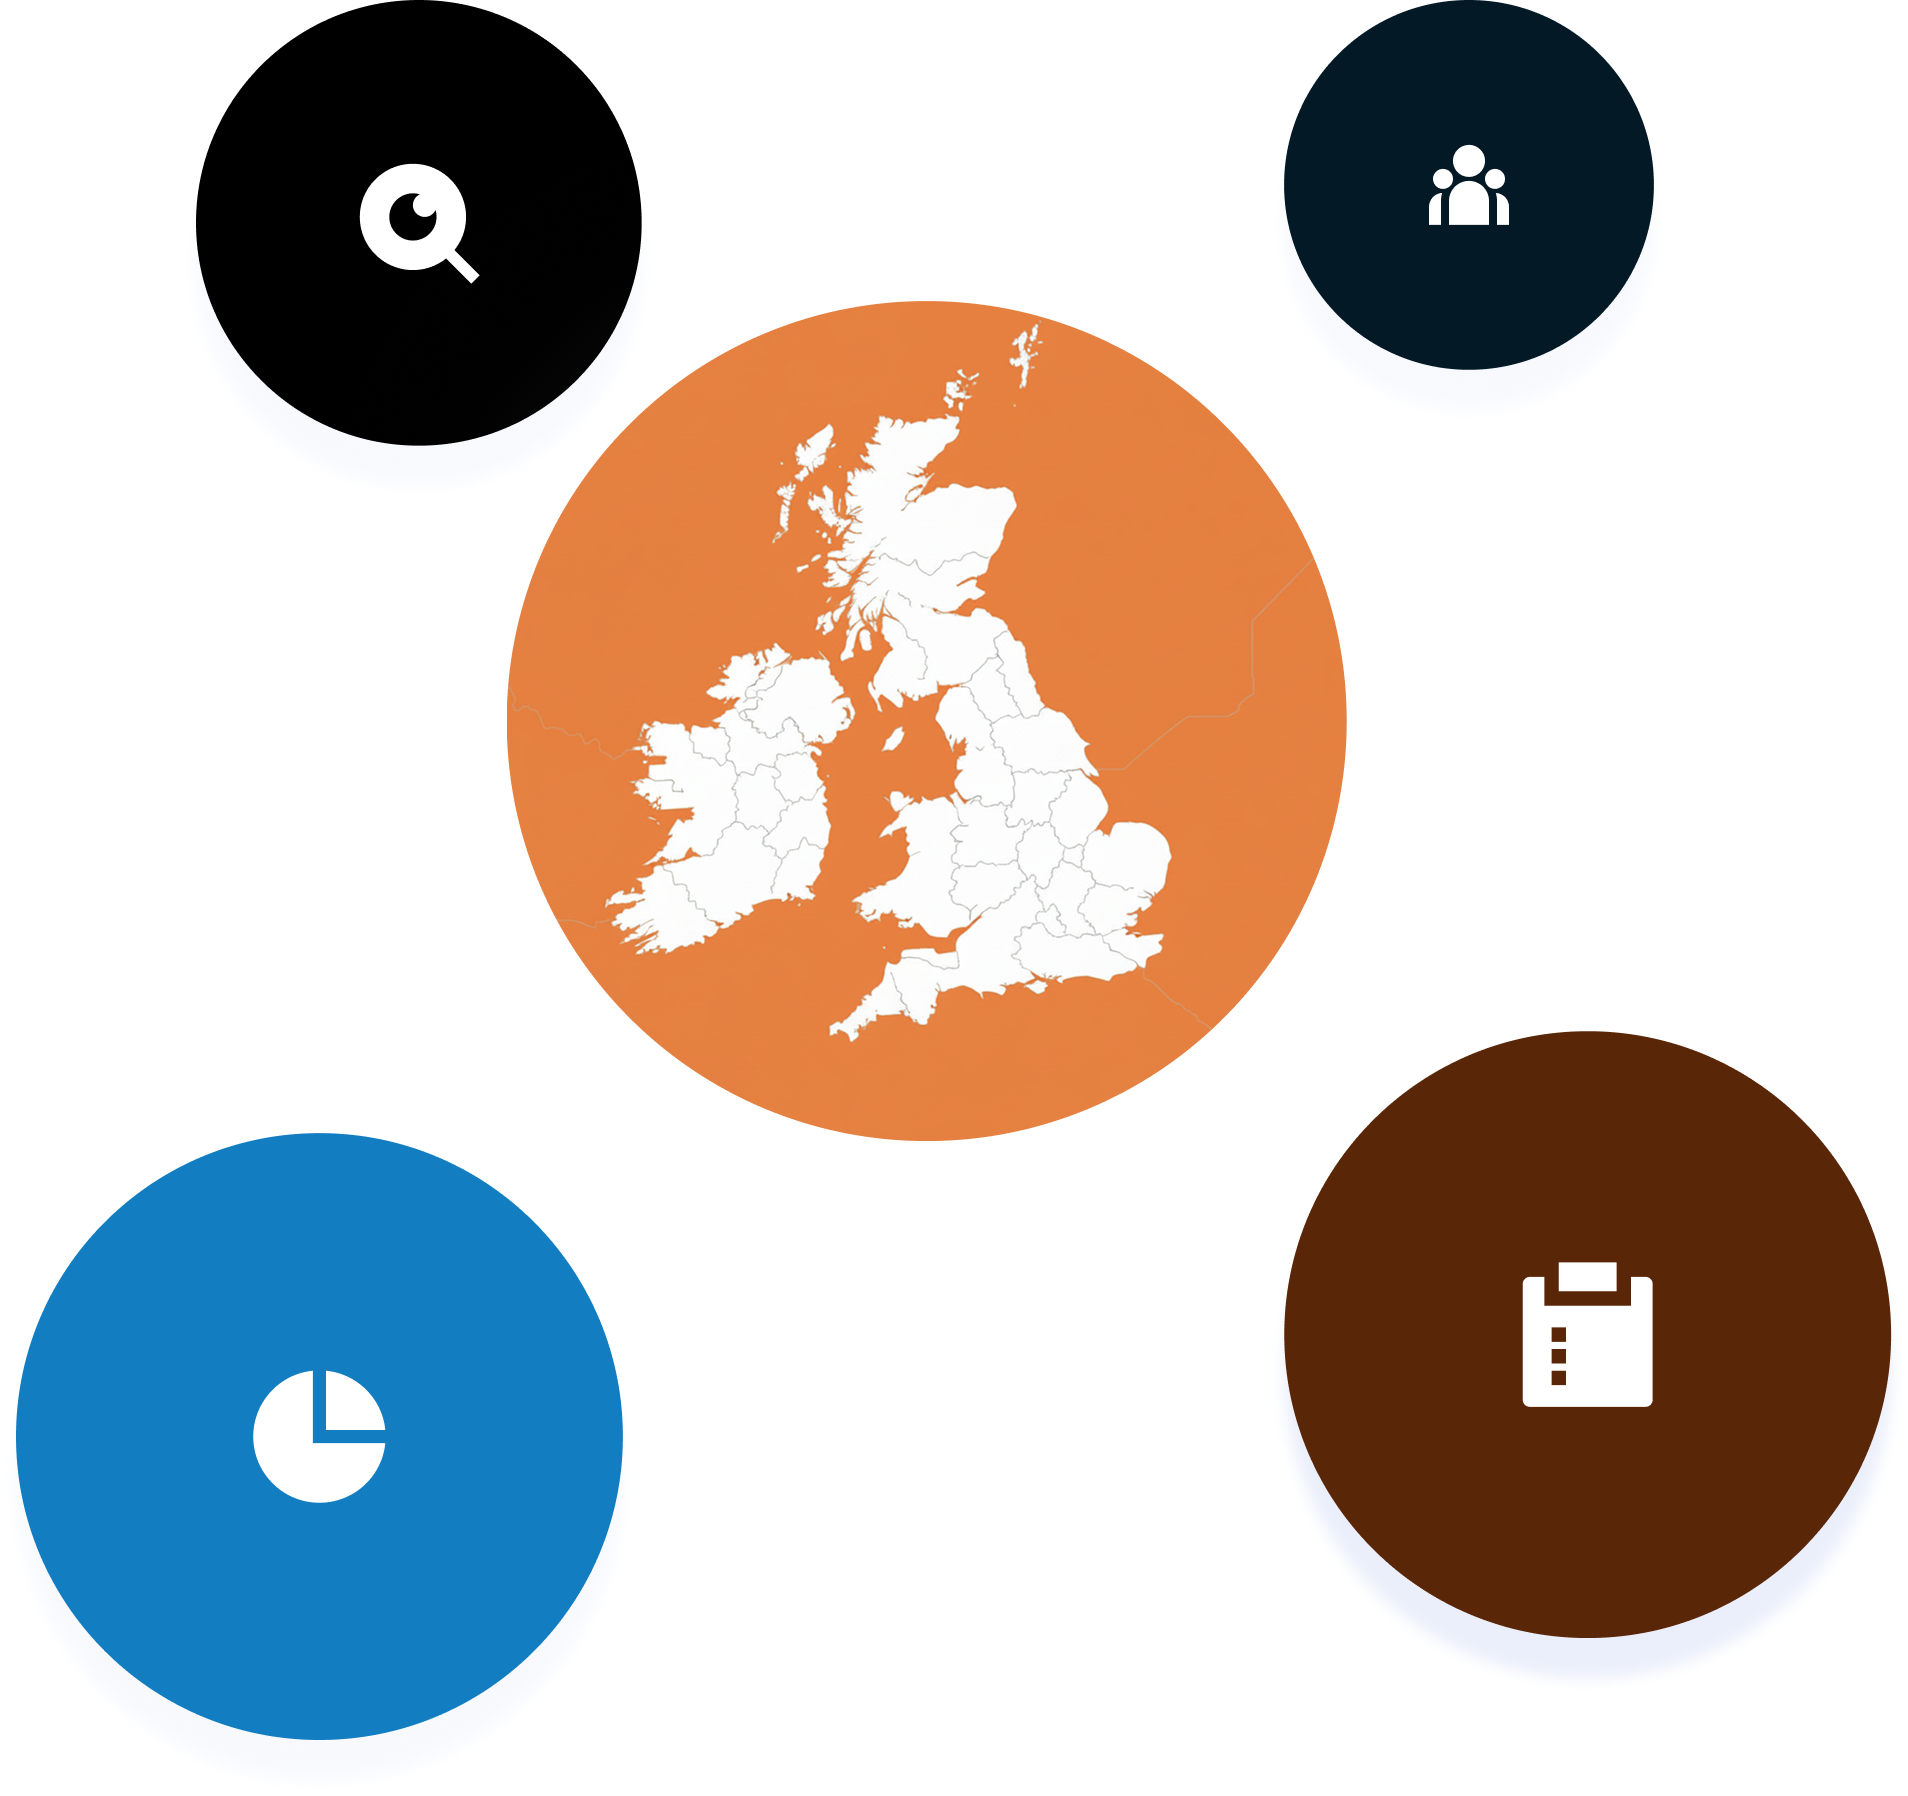
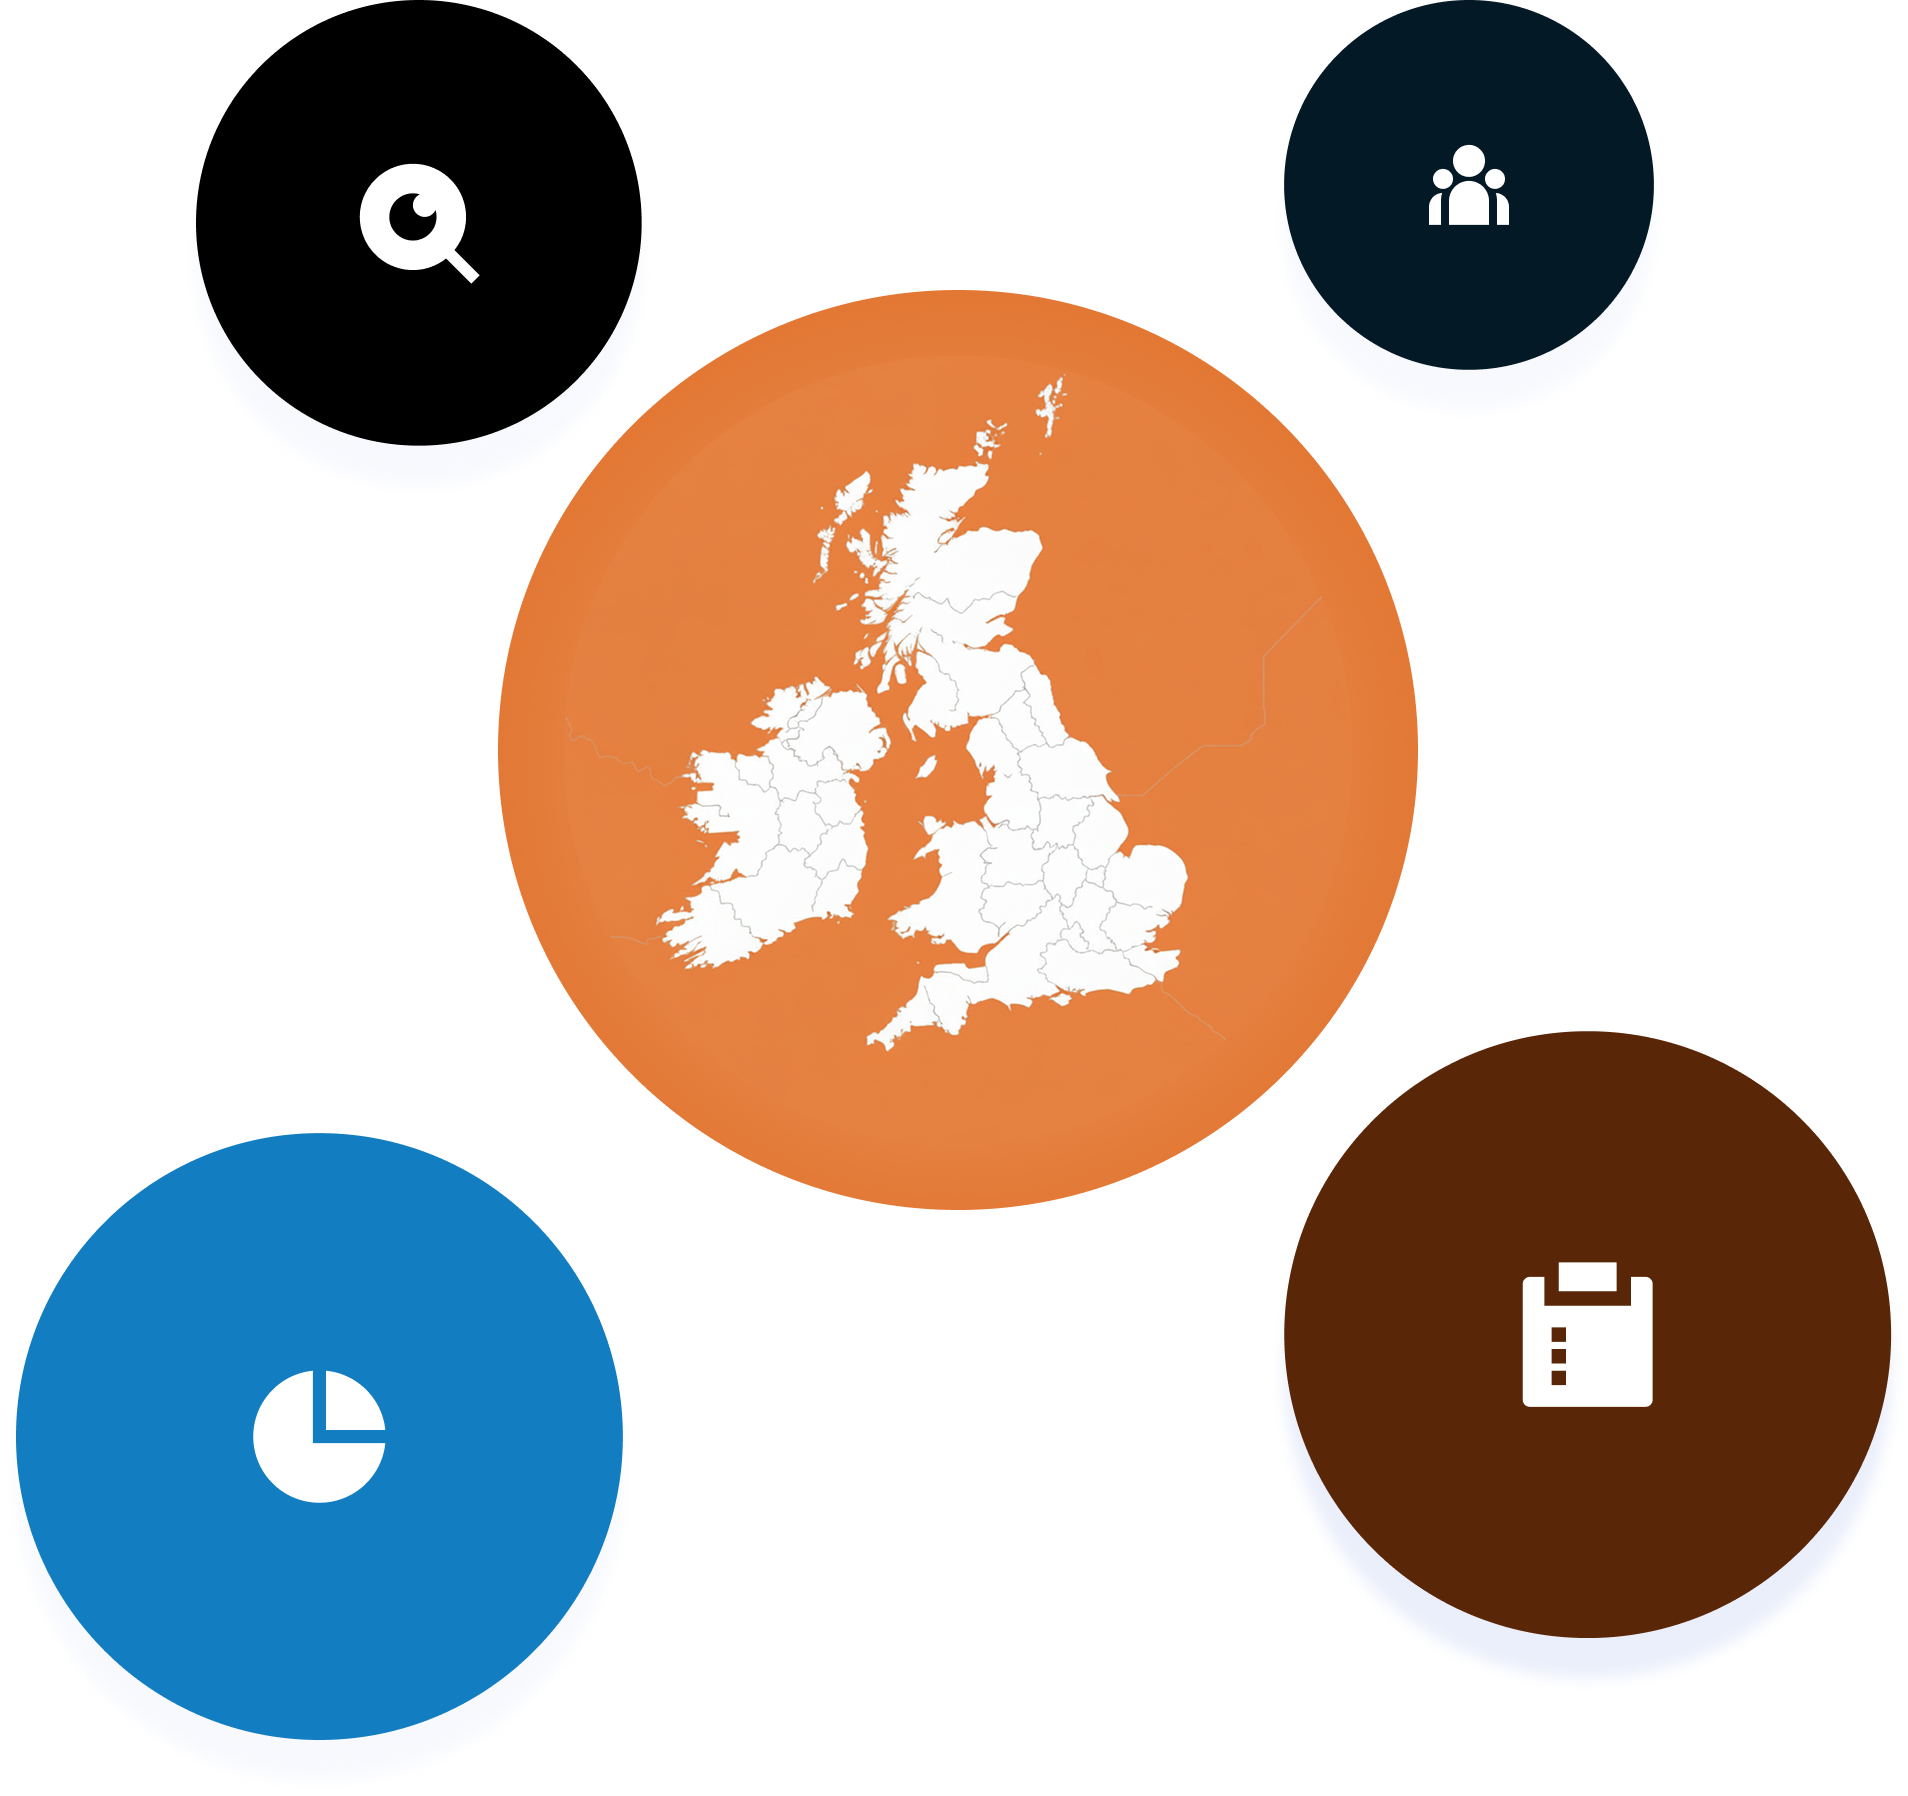
latest update to site

Changed region(s): [[0.2783, 0.1559, 0.7421, 0.686], [0.2474, 0.3742, 0.2783, 0.4989]]

diff --git a/src/app/(main)/page.js b/src/app/(main)/page.js
@@ -149,7 +149,7 @@ export default function Main() {
       id: 8,
       title: "Telecommunication and Media",
       description:
-        "BFG helps businesses in this sector navigate technological disruptions, regulatory shifts, and digital transformations to remain competitive and deliver superior services.",
+        "BFG Global Consult helps businesses in this sector navigate technological disruptions, regulatory shifts, and digital transformations to remain competitive and deliver superior services.",
       imageAlt: "slider8-img",
       imageSrc: "/assets/telecom-banner.png",
       readMore: "/industry/industries/telecom-media",
@@ -245,7 +245,7 @@ export default function Main() {
       href: "/solutions/research-analytics",
       title: "Research & Analytics",
       description:
-        "We provide startups, & SMEs with valuable insights & information that can inform business strategies, decision-making processes, & problem-solving efforts. We serve as an impartial partner for businesses in the process of gathering, analyzing & interpreting data in order to make informed decisions.",
+        "We provide Startups & SMEs with valuable insights & Information that can inform business strategies, market positioning, customer engagement, and overall decision-making. We serve as an impartial partner for businesses in the process of gathering, analyzing & interpreting data in order to make informed decisions.",
       svgPath:
         "M6 4V8H18V4H20.0066C20.5552 4 21 4.44495 21 4.9934V21.0066C21 21.5552 20.5551 22 20.0066 22H3.9934C3.44476 22 3 21.5551 3 21.0066V4.9934C3 4.44476 3.44495 4 3.9934 4H6ZM9 17H7V19H9V17ZM9 14H7V16H9V14ZM9 11H7V13H9V11ZM16 2V6H8V2H16Z",
     },
@@ -258,13 +258,12 @@ export default function Main() {
       svgPath:
         "M18.031 16.6168L22.3137 20.8995L20.8995 22.3137L16.6168 18.031C15.0769 19.263 13.124 20 11 20C6.032 20 2 15.968 2 11C2 6.032 6.032 2 11 2C15.968 2 20 6.032 20 11C20 13.124 19.263 15.0769 18.031 16.6168ZM16.0247 15.8748C17.2475 14.6146 18 12.8956 18 11C18 7.1325 14.8675 4 11 4C7.1325 4 4 7.1325 4 11C4 14.8675 7.1325 18 11 18C12.8956 18 14.6146 17.2475 15.8748 16.0247L16.0247 15.8748ZM12.1779 7.17624C11.4834 7.48982 11 8.18846 11 9C11 10.1046 11.8954 11 13 11C13.8115 11 14.5102 10.5166 14.8238 9.82212C14.9383 10.1945 15 10.59 15 11C15 13.2091 13.2091 15 11 15C8.79086 15 7 13.2091 7 11C7 8.79086 8.79086 7 11 7C11.41 7 11.8055 7.06167 12.1779 7.17624Z",
     },
-   
     {
       id: 3,
       href: "/solutions/business-strategy",
       title: "Strategy & Operations Transformation",
       description:
-        "Earn your business the ability to achieve desired goals through the development & implementation of plans & processes aimed at improving competitiveness. Through this service, we help startups & SMEs align their operations.",
+        "Earn your business the ability to achieve desired goals through the development & implementation of plans & processes aimed at improving competitiveness. Through this service, we help startups & SMEs align their operations with their strategic objectives.",
       svgPath:
         "M11 2.04938V13H21.9506C21.4489 18.0533 17.1853 22 12 22C6.47715 22 2 17.5229 2 12C2 6.81465 5.94668 2.5511 11 2.04938ZM13 2.04938C17.7244 2.51845 21.4816 6.27559 21.9506 11H13V2.04938Z",
     },
@@ -273,7 +272,7 @@ export default function Main() {
       href: "/solutions/training-development",
       title: "Training & Development",
       description:
-        "Improve job performance through employee training. Win the process of enhancing the skills, knowledge & abilities of employees to perform their jobs more effectively. Through this solution, we help startups & SMEs improve their overall performance.",
+        "Improve job performance through employee training. Win the process of enhancing the skills, knowledge & abilities of employees to perform their jobs more effectively. Through this solution, we help Startups & SMEs improve their overall performance by equipping them with the right knowledge and skills.",
       svgPath:
         "M12 10C14.2091 10 16 8.20914 16 6 16 3.79086 14.2091 2 12 2 9.79086 2 8 3.79086 8 6 8 8.20914 9.79086 10 12 10ZM5.5 13C6.88071 13 8 11.8807 8 10.5 8 9.11929 6.88071 8 5.5 8 4.11929 8 3 9.11929 3 10.5 3 11.8807 4.11929 13 5.5 13ZM21 10.5C21 11.8807 19.8807 13 18.5 13 17.1193 13 16 11.8807 16 10.5 16 9.11929 17.1193 8 18.5 8 19.8807 8 21 9.11929 21 10.5ZM12 11C14.7614 11 17 13.2386 17 16V22H7V16C7 13.2386 9.23858 11 12 11ZM5 15.9999C5 15.307 5.10067 14.6376 5.28818 14.0056L5.11864 14.0204C3.36503 14.2104 2 15.6958 2 17.4999V21.9999H5V15.9999ZM22 21.9999V17.4999C22 15.6378 20.5459 14.1153 18.7118 14.0056 18.8993 14.6376 19 15.307 19 15.9999V21.9999H22Z",
     },

diff --git a/src/app/ng/page.js b/src/app/ng/page.js
@@ -144,14 +144,14 @@ export default function NigeriaPage() {
     <div className="min-h-screen">
       {/* Hero Section */}
       <section className="relative py-16 lg:py-[150px]">
-        <div className="absolute inset-0 z-0">
+        {/* <div className="absolute inset-0 z-0">
           <Image
             src="/assets/ng-background.png"
             alt="Nigeria business landscape background with modern office buildings"
             fill
             className="object-cover"
           />
-        </div> 
+        </div>  */}
         <div className="container mx-auto relative z-10">
           <div className="grid lg:grid-cols-2 gap-12 items-center">
           {/* Left Content */}
@@ -188,7 +188,7 @@ export default function NigeriaPage() {
 
           {/* Right Content - Map with Stats */}
           <div className="relative">
-            <div className="bg-gradient-to-br from-gray-50 to-gray-100 rounded-2xl p-8 lg:p-12 shadow-xl">
+            {/* <div className="bg-gradient-to-br from-gray-50 to-gray-100 rounded-2xl p-8 lg:p-12 shadow-xl"> */}
               {/* Growth Rate Badge */}
               {/* <div className="absolute top-8 left-8 bg-white rounded-lg shadow-lg p-3 flex items-center gap-3">
                 <div className="w-10 h-10 bg-[#E26015] rounded-lg flex items-center justify-center">
@@ -229,7 +229,7 @@ export default function NigeriaPage() {
                   <p className="text-lg font-bold text-[#E26015]">99.8%</p>
                 </div>
               </div> */}
-            </div>
+            {/* </div> */}
           </div>
         </div>
         </div>

diff --git a/src/app/(uk)/uk/page.js b/src/app/(uk)/uk/page.js
@@ -140,14 +140,14 @@ export default function UKPage() {
     <div className="min-h-screen">
       {/* Hero Section */}
       <section className="relative py-16 lg:py-[150px]">
-        <div className="absolute inset-0 z-0">
+        {/* <div className="absolute inset-0 z-0">
           <Image
             src="/assets/ng-background.png"
             alt="UK business landscape background with modern office buildings"
             fill
             className="object-cover"
           />
-        </div>
+        </div> */}
         <div className="container mx-auto relative z-10">
           <div className="grid lg:grid-cols-2 gap-12 items-center">
           {/* Left Content */}
@@ -185,7 +185,7 @@ export default function UKPage() {
 
           {/* Right Content - Map with Stats */}
           <div className="relative">
-            <div className="bg-gradient-to-br from-gray-50 to-gray-100 rounded-2xl p-8 lg:p-12 shadow-xl">
+            {/* <div className="bg-gradient-to-br from-gray-50 to-gray-100 rounded-2xl p-8 lg:p-12 shadow-xl"> */}
               {/* Growth Rate Badge */}
               {/* <div className="absolute top-8 left-8 bg-white rounded-lg shadow-lg p-3 flex items-center gap-3">
                 <div className="w-10 h-10 bg-[#E26015] rounded-lg flex items-center justify-center">
@@ -226,7 +226,7 @@ export default function UKPage() {
                   <p className="text-lg font-bold text-[#E26015]">99.8%</p>
                 </div>
               </div> */}
-            </div>
+            {/* </div> */}
           </div>
         </div>
         </div>

diff --git a/src/app/(main)/about/page.js b/src/app/(main)/about/page.js
@@ -213,7 +213,7 @@ const Page = () => {
                 Transforming Africa&apos;s Potential into Growth since 2018
               </h3>
               <p className=" text-[#999] my-5 text-lg lg:text-xl">
-               As the Managing Partner and CEO of BFG Global Consulting Limited, it is my pleasure to welcome you and introduce our firm, a company driven by a passion for growth, innovation, and transformation. At BFG Consults, we are committed to partnering with individuals, startups, SMEs, governments and multilateral organisations, as they navigate today's fast-evolving market landscape.
+               As the Managing Partner and CEO of BFG Global Consulting Limited, it is my pleasure to welcome you and introduce our firm, a company driven by a passion for growth, innovation, and transformation. At BFG Consults, we are committed to partnering with individuals, startups, SMEs, governments and multilateral organisations to secure industry relevance.
               </p>
               <p className=" text-[#999] my-5 text-lg lg:text-xl">
                 In a world marked by constant change and digital disruption, we understand the unique challenges and opportunities faced by private, public, and multilateral organisations seeking to scale impact, drive sustainability, and shape Africa&apos;s future. Our mission is to be the trusted partner that helps you seize these opportunities on your projects. 
